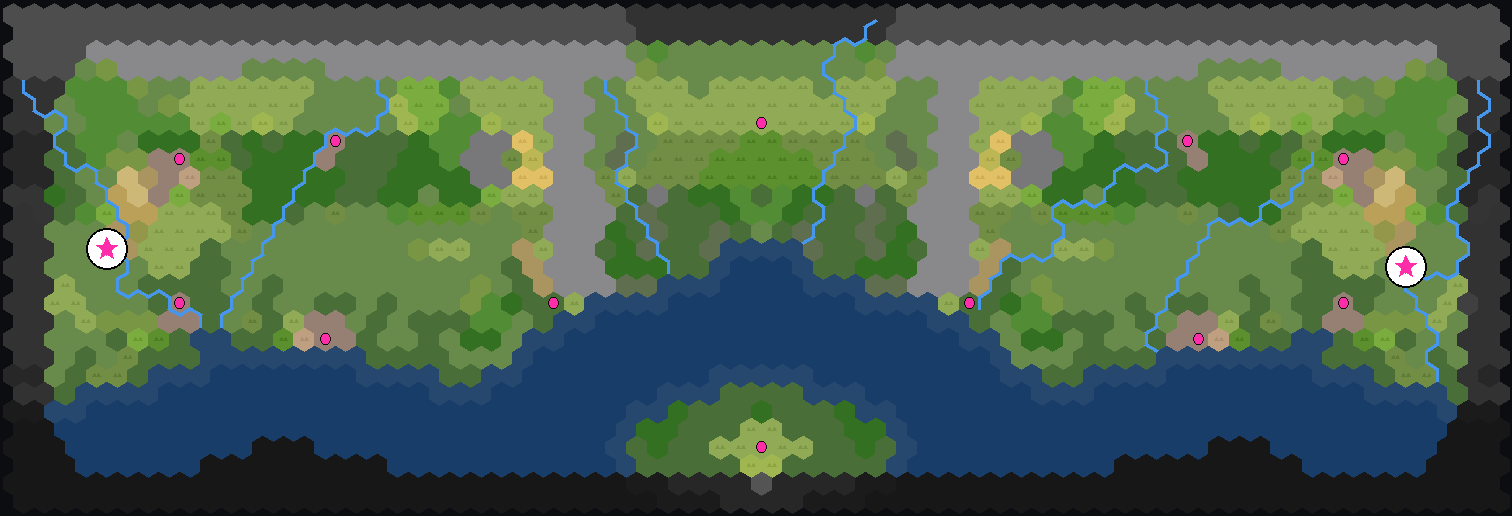
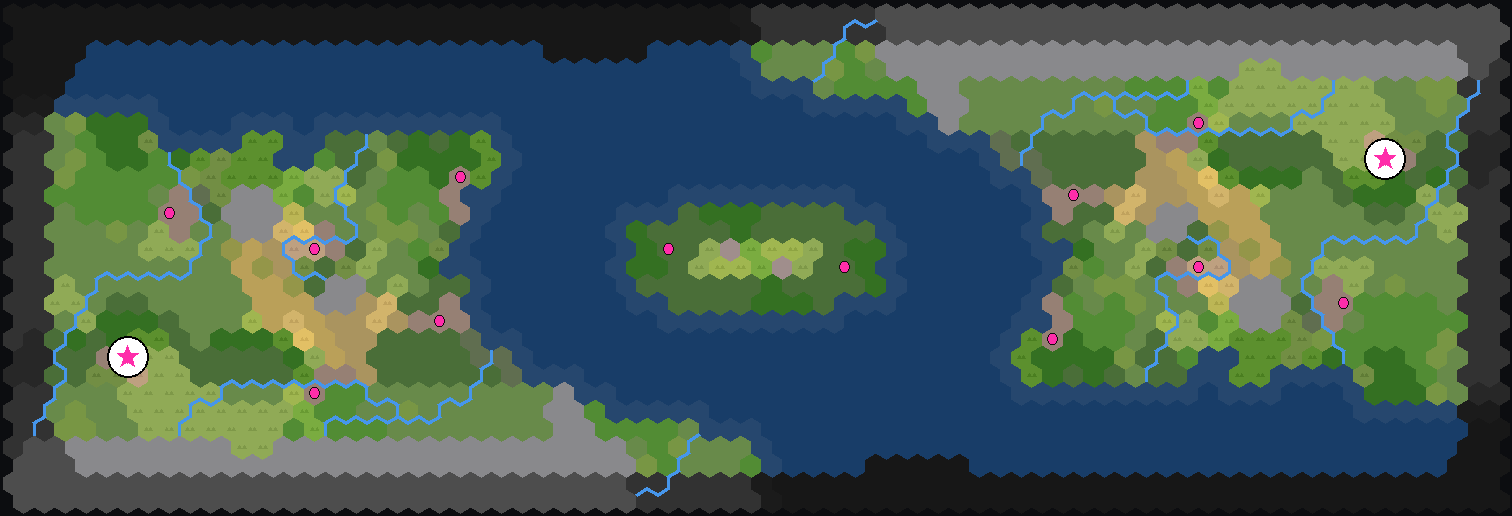
Fix point-symmetry maps in the config atlas
The atlas regeneration passed only --point-symmetry, which falls back to a
plain mirror layout; true point symmetry needs --mirror --point-symmetry
together. Re-render the 12 PointSymmetry maps so they show the real S-strait
variant (sea in opposite corners, self-rotational island at the centre,
diagonal capitals). The map script itself was unchanged.

Claude-Session: https://claude.ai/code/session_016anqmz6LqKaoVPgJrYHWkN

diff --git a/atlas/index.html b/atlas/index.html
@@ -34,7 +34,7 @@ h1 { margin: 0 0 4px; font: 600 18px/1.2 ui-monospace, Menlo, monospace;
 <header><h1>Caldera Bay — Config Atlas</h1>
 <div class="sub">Duel &amp; Tiny · Square / Wide / Ultrawide · Mirror (classic estuary)
 vs Point Symmetry (the S-strait) · always Temperate</div></header>
-<div class="grid"><div class="card"><img src="maps/Caldera_Bay_Duel-Square-Mirror-1.png" loading="lazy"><div class="meta"><div class="seed">seed Duel-Square-Mirror-1</div><div class="chips"><span class="chip">46×44</span><span class="chip">12% flat-lush</span><span class="chip">water 476</span><span class="chip">mtn 275</span><span class="chip bad">rivers 167</span><span class="chip bad">forest 292</span><span class="chip ok">2 starts</span><span class="chip ok">mirror-sym</span><span class="chip">sites 14</span><span class="chip">tribes 10</span><span class="chip">res 60</span></div></div></div><div class="card"><img src="maps/Caldera_Bay_Duel-Square-Mirror-5.png" loading="lazy"><div class="meta"><div class="seed">seed Duel-Square-Mirror-5</div><div class="chips"><span class="chip">46×44</span><span class="chip">11% flat-lush</span><span class="chip">water 455</span><span class="chip">mtn 338</span><span class="chip bad">rivers 176</span><span class="chip bad">forest 356</span><span class="chip ok">2 starts</span><span class="chip ok">mirror-sym</span><span class="chip">sites 14</span><span class="chip">tribes 10</span><span class="chip">res 74</span></div></div></div><div class="card"><img src="maps/Caldera_Bay_Duel-Square-PointSymmetry-1.png" loading="lazy"><div class="meta"><div class="seed">seed Duel-Square-PointSymmetry-1</div><div class="chips"><span class="chip">46×44</span><span class="chip">12% flat-lush</span><span class="chip">water 477</span><span class="chip">mtn 277</span><span class="chip bad">rivers 143</span><span class="chip bad">forest 295</span><span class="chip ok">2 starts</span><span class="chip ok">point-sym</span><span class="chip">sites 15</span><span class="chip">tribes 10</span><span class="chip">res 78</span></div></div></div><div class="card"><img src="maps/Caldera_Bay_Duel-Square-PointSymmetry-5.png" loading="lazy"><div class="meta"><div class="seed">seed Duel-Square-PointSymmetry-5</div><div class="chips"><span class="chip">46×44</span><span class="chip">11% flat-lush</span><span class="chip">water 459</span><span class="chip">mtn 338</span><span class="chip bad">rivers 134</span><span class="chip bad">forest 377</span><span class="chip ok">2 starts</span><span class="chip ok">point-sym</span><span class="chip">sites 17</span><span class="chip">tribes 12</span><span class="chip">res 92</span></div></div></div><div class="card"><img src="maps/Caldera_Bay_Duel-Ultrawide-Mirror-1.png" loading="lazy"><div class="meta"><div class="seed">seed Duel-Ultrawide-Mirror-1</div><div class="chips"><span class="chip">72×28</span><span class="chip">16% flat-lush</span><span class="chip">water 613</span><span class="chip">mtn 298</span><span class="chip bad">rivers 173</span><span class="chip bad">forest 273</span><span class="chip ok">2 starts</span><span class="chip ok">mirror-sym</span><span class="chip">sites 16</span><span class="chip">tribes 10</span><span class="chip">res 66</span></div></div></div><div class="card"><img src="maps/Caldera_Bay_Duel-Ultrawide-Mirror-5.png" loading="lazy"><div class="meta"><div class="seed">seed Duel-Ultrawide-Mirror-5</div><div class="chips"><span class="chip">72×28</span><span class="chip">8% flat-lush</span><span class="chip">water 587</span><span class="chip">mtn 304</span><span class="chip bad">rivers 146</span><span class="chip bad">forest 380</span><span class="chip ok">2 starts</span><span class="chip ok">mirror-sym</span><span class="chip">sites 14</span><span class="chip">tribes 10</span><span class="chip">res 72</span></div></div></div><div class="card"><img src="maps/Caldera_Bay_Duel-Ultrawide-PointSymmetry-1.png" loading="lazy"><div class="meta"><div class="seed">seed Duel-Ultrawide-PointSymmetry-1</div><div class="chips"><span class="chip">72×28</span><span class="chip">16% flat-lush</span><span class="chip">water 613</span><span class="chip">mtn 298</span><span class="chip bad">rivers 163</span><span class="chip bad">forest 264</span><span class="chip ok">2 starts</span><span class="chip ok">point-sym</span><span class="chip">sites 14</span><span class="chip">tribes 8</span><span class="chip">res 74</span></div></div></div><div class="card"><img src="maps/Caldera_Bay_Duel-Ultrawide-PointSymmetry-5.png" loading="lazy"><div class="meta"><div class="seed">seed Duel-Ultrawide-PointSymmetry-5</div><div class="chips"><span class="chip">72×28</span><span class="chip">7% flat-lush</span><span class="chip">water 591</span><span class="chip">mtn 304</span><span class="chip bad">rivers 152</span><span class="chip bad">forest 362</span><span class="chip ok">2 starts</span><span class="chip ok">point-sym</span><span class="chip">sites 15</span><span class="chip">tribes 10</span><span class="chip">res 76</span></div></div></div><div class="card"><img src="maps/Caldera_Bay_Duel-Wide-Mirror-1.png" loading="lazy"><div class="meta"><div class="seed">seed Duel-Wide-Mirror-1</div><div class="chips"><span class="chip">58×34</span><span class="chip">13% flat-lush</span><span class="chip">water 542</span><span class="chip">mtn 292</span><span class="chip bad">rivers 143</span><span class="chip bad">forest 314</span><span class="chip ok">2 starts</span><span class="chip ok">mirror-sym</span><span class="chip">sites 14</span><span class="chip">tribes 10</span><span class="chip">res 78</span></div></div></div><div class="card"><img src="maps/Caldera_Bay_Duel-Wide-Mirror-5.png" loading="lazy"><div class="meta"><div class="seed">seed Duel-Wide-Mirror-5</div><div class="chips"><span class="chip">58×34</span><span class="chip">12% flat-lush</span><span class="chip">water 507</span><span class="chip">mtn 300</span><span class="chip bad">rivers 136</span><span class="chip bad">forest 357</span><span class="chip ok">2 starts</span><span class="chip ok">mirror-sym</span><span class="chip">sites 16</span><span class="chip">tribes 12</span><span class="chip">res 64</span></div></div></div><div class="card"><img src="maps/Caldera_Bay_Duel-Wide-PointSymmetry-1.png" loading="lazy"><div class="meta"><div class="seed">seed Duel-Wide-PointSymmetry-1</div><div class="chips"><span class="chip">58×34</span><span class="chip">13% flat-lush</span><span class="chip">water 543</span><span class="chip">mtn 292</span><span class="chip bad">rivers 139</span><span class="chip bad">forest 320</span><span class="chip ok">2 starts</span><span class="chip ok">point-sym</span><span class="chip">sites 15</span><span class="chip">tribes 10</span><span class="chip">res 80</span></div></div></div><div class="card"><img src="maps/Caldera_Bay_Duel-Wide-PointSymmetry-5.png" loading="lazy"><div class="meta"><div class="seed">seed Duel-Wide-PointSymmetry-5</div><div class="chips"><span class="chip">58×34</span><span class="chip">12% flat-lush</span><span class="chip">water 510</span><span class="chip">mtn 300</span><span class="chip bad">rivers 148</span><span class="chip bad">forest 366</span><span class="chip ok">2 starts</span><span class="chip ok">point-sym</span><span class="chip">sites 17</span><span class="chip">tribes 12</span><span class="chip">res 66</span></div></div></div><div class="card"><img src="maps/Caldera_Bay_Tiny-Square-Mirror-1.png" loading="lazy"><div class="meta"><div class="seed">seed Tiny-Square-Mirror-1</div><div class="chips"><span class="chip">58×58</span><span class="chip">14% flat-lush</span><span class="chip">water 776</span><span class="chip">mtn 389</span><span class="chip bad">rivers 188</span><span class="chip bad">forest 529</span><span class="chip ok">2 starts</span><span class="chip ok">mirror-sym</span><span class="chip">sites 26</span><span class="chip">tribes 22</span><span class="chip">res 111</span></div></div></div><div class="card"><img src="maps/Caldera_Bay_Tiny-Square-Mirror-5.png" loading="lazy"><div class="meta"><div class="seed">seed Tiny-Square-Mirror-5</div><div class="chips"><span class="chip">58×58</span><span class="chip">15% flat-lush</span><span class="chip">water 813</span><span class="chip">mtn 451</span><span class="chip bad">rivers 242</span><span class="chip bad">forest 402</span><span class="chip ok">2 starts</span><span class="chip ok">mirror-sym</span><span class="chip">sites 28</span><span class="chip">tribes 22</span><span class="chip">res 142</span></div></div></div><div class="card"><img src="maps/Caldera_Bay_Tiny-Square-PointSymmetry-1.png" loading="lazy"><div class="meta"><div class="seed">seed Tiny-Square-PointSymmetry-1</div><div class="chips"><span class="chip">58×58</span><span class="chip">13% flat-lush</span><span class="chip">water 768</span><span class="chip">mtn 389</span><span class="chip bad">rivers 213</span><span class="chip bad">forest 548</span><span class="chip ok">2 starts</span><span class="chip ok">point-sym</span><span class="chip">sites 27</span><span class="chip">tribes 22</span><span class="chip">res 124</span></div></div></div><div class="card"><img src="maps/Caldera_Bay_Tiny-Square-PointSymmetry-5.png" loading="lazy"><div class="meta"><div class="seed">seed Tiny-Square-PointSymmetry-5</div><div class="chips"><span class="chip">58×58</span><span class="chip">16% flat-lush</span><span class="chip">water 815</span><span class="chip">mtn 451</span><span class="chip bad">rivers 242</span><span class="chip bad">forest 397</span><span class="chip ok">2 starts</span><span class="chip ok">point-sym</span><span class="chip">sites 27</span><span class="chip">tribes 22</span><span class="chip">res 163</span></div></div></div><div class="card"><img src="maps/Caldera_Bay_Tiny-Ultrawide-Mirror-1.png" loading="lazy"><div class="meta"><div class="seed">seed Tiny-Ultrawide-Mirror-1</div><div class="chips"><span class="chip">92×36</span><span class="chip">11% flat-lush</span><span class="chip">water 785</span><span class="chip">mtn 343</span><span class="chip bad">rivers 239</span><span class="chip bad">forest 461</span><span class="chip ok">2 starts</span><span class="chip ok">mirror-sym</span><span class="chip">sites 26</span><span class="chip">tribes 20</span><span class="chip">res 156</span></div></div></div><div class="card"><img src="maps/Caldera_Bay_Tiny-Ultrawide-Mirror-5.png" loading="lazy"><div class="meta"><div class="seed">seed Tiny-Ultrawide-Mirror-5</div><div class="chips"><span class="chip">92×36</span><span class="chip">9% flat-lush</span><span class="chip">water 789</span><span class="chip">mtn 531</span><span class="chip bad">rivers 237</span><span class="chip bad">forest 588</span><span class="chip ok">2 starts</span><span class="chip ok">mirror-sym</span><span class="chip">sites 26</span><span class="chip">tribes 22</span><span class="chip">res 152</span></div></div></div><div class="card"><img src="maps/Caldera_Bay_Tiny-Ultrawide-PointSymmetry-1.png" loading="lazy"><div class="meta"><div class="seed">seed Tiny-Ultrawide-PointSymmetry-1</div><div class="chips"><span class="chip">92×36</span><span class="chip">12% flat-lush</span><span class="chip">water 805</span><span class="chip">mtn 343</span><span class="chip bad">rivers 232</span><span class="chip bad">forest 464</span><span class="chip ok">2 starts</span><span class="chip ok">point-sym</span><span class="chip">sites 26</span><span class="chip">tribes 20</span><span class="chip">res 145</span></div></div></div><div class="card"><img src="maps/Caldera_Bay_Tiny-Ultrawide-PointSymmetry-5.png" loading="lazy"><div class="meta"><div class="seed">seed Tiny-Ultrawide-PointSymmetry-5</div><div class="chips"><span class="chip">92×36</span><span class="chip">9% flat-lush</span><span class="chip">water 793</span><span class="chip">mtn 533</span><span class="chip bad">rivers 203</span><span class="chip bad">forest 599</span><span class="chip ok">2 starts</span><span class="chip ok">point-sym</span><span class="chip">sites 27</span><span class="chip">tribes 22</span><span class="chip">res 149</span></div></div></div><div class="card"><img src="maps/Caldera_Bay_Tiny-Wide-Mirror-1.png" loading="lazy"><div class="meta"><div class="seed">seed Tiny-Wide-Mirror-1</div><div class="chips"><span class="chip">74×46</span><span class="chip">14% flat-lush</span><span class="chip">water 756</span><span class="chip">mtn 469</span><span class="chip bad">rivers 262</span><span class="chip bad">forest 478</span><span class="chip ok">2 starts</span><span class="chip ok">mirror-sym</span><span class="chip">sites 28</span><span class="chip">tribes 22</span><span class="chip">res 138</span></div></div></div><div class="card"><img src="maps/Caldera_Bay_Tiny-Wide-Mirror-5.png" loading="lazy"><div class="meta"><div class="seed">seed Tiny-Wide-Mirror-5</div><div class="chips"><span class="chip">74×46</span><span class="chip">10% flat-lush</span><span class="chip">water 719</span><span class="chip">mtn 486</span><span class="chip bad">rivers 240</span><span class="chip bad">forest 409</span><span class="chip ok">2 starts</span><span class="chip ok">mirror-sym</span><span class="chip">sites 26</span><span class="chip">tribes 22</span><span class="chip">res 146</span></div></div></div><div class="card"><img src="maps/Caldera_Bay_Tiny-Wide-PointSymmetry-1.png" loading="lazy"><div class="meta"><div class="seed">seed Tiny-Wide-PointSymmetry-1</div><div class="chips"><span class="chip">74×46</span><span class="chip">13% flat-lush</span><span class="chip">water 759</span><span class="chip">mtn 467</span><span class="chip bad">rivers 249</span><span class="chip bad">forest 463</span><span class="chip ok">2 starts</span><span class="chip ok">point-sym</span><span class="chip">sites 27</span><span class="chip">tribes 22</span><span class="chip">res 133</span></div></div></div><div class="card"><img src="maps/Caldera_Bay_Tiny-Wide-PointSymmetry-5.png" loading="lazy"><div class="meta"><div class="seed">seed Tiny-Wide-PointSymmetry-5</div><div class="chips"><span class="chip">74×46</span><span class="chip">10% flat-lush</span><span class="chip">water 720</span><span class="chip">mtn 486</span><span class="chip bad">rivers 252</span><span class="chip bad">forest 410</span><span class="chip ok">2 starts</span><span class="chip ok">point-sym</span><span class="chip">sites 27</span><span class="chip">tribes 22</span><span class="chip">res 143</span></div></div></div></div>
+<div class="grid"><div class="card"><img src="maps/Caldera_Bay_Duel-Square-Mirror-1.png" loading="lazy"><div class="meta"><div class="seed">seed Duel-Square-Mirror-1</div><div class="chips"><span class="chip">46×44</span><span class="chip">12% flat-lush</span><span class="chip">water 476</span><span class="chip">mtn 275</span><span class="chip bad">rivers 167</span><span class="chip bad">forest 292</span><span class="chip ok">2 starts</span><span class="chip ok">mirror-sym</span><span class="chip">sites 14</span><span class="chip">tribes 10</span><span class="chip">res 60</span></div></div></div><div class="card"><img src="maps/Caldera_Bay_Duel-Square-Mirror-5.png" loading="lazy"><div class="meta"><div class="seed">seed Duel-Square-Mirror-5</div><div class="chips"><span class="chip">46×44</span><span class="chip">11% flat-lush</span><span class="chip">water 455</span><span class="chip">mtn 338</span><span class="chip bad">rivers 176</span><span class="chip bad">forest 356</span><span class="chip ok">2 starts</span><span class="chip ok">mirror-sym</span><span class="chip">sites 14</span><span class="chip">tribes 10</span><span class="chip">res 74</span></div></div></div><div class="card"><img src="maps/Caldera_Bay_Duel-Square-PointSymmetry-1.png" loading="lazy"><div class="meta"><div class="seed">seed Duel-Square-PointSymmetry-1</div><div class="chips"><span class="chip">46×44</span><span class="chip">9% flat-lush</span><span class="chip">water 818</span><span class="chip">mtn 194</span><span class="chip bad">rivers 139</span><span class="chip bad">forest 265</span><span class="chip ok">2 starts</span><span class="chip ok">point-sym</span><span class="chip">sites 16</span><span class="chip">tribes 12</span><span class="chip">res 75</span></div></div></div><div class="card"><img src="maps/Caldera_Bay_Duel-Square-PointSymmetry-5.png" loading="lazy"><div class="meta"><div class="seed">seed Duel-Square-PointSymmetry-5</div><div class="chips"><span class="chip">46×44</span><span class="chip">6% flat-lush</span><span class="chip">water 762</span><span class="chip">mtn 240</span><span class="chip bad">rivers 140</span><span class="chip bad">forest 260</span><span class="chip ok">2 starts</span><span class="chip ok">point-sym</span><span class="chip">sites 16</span><span class="chip">tribes 12</span><span class="chip">res 92</span></div></div></div><div class="card"><img src="maps/Caldera_Bay_Duel-Ultrawide-Mirror-1.png" loading="lazy"><div class="meta"><div class="seed">seed Duel-Ultrawide-Mirror-1</div><div class="chips"><span class="chip">72×28</span><span class="chip">16% flat-lush</span><span class="chip">water 613</span><span class="chip">mtn 298</span><span class="chip bad">rivers 173</span><span class="chip bad">forest 273</span><span class="chip ok">2 starts</span><span class="chip ok">mirror-sym</span><span class="chip">sites 16</span><span class="chip">tribes 10</span><span class="chip">res 66</span></div></div></div><div class="card"><img src="maps/Caldera_Bay_Duel-Ultrawide-Mirror-5.png" loading="lazy"><div class="meta"><div class="seed">seed Duel-Ultrawide-Mirror-5</div><div class="chips"><span class="chip">72×28</span><span class="chip">8% flat-lush</span><span class="chip">water 587</span><span class="chip">mtn 304</span><span class="chip bad">rivers 146</span><span class="chip bad">forest 380</span><span class="chip ok">2 starts</span><span class="chip ok">mirror-sym</span><span class="chip">sites 14</span><span class="chip">tribes 10</span><span class="chip">res 72</span></div></div></div><div class="card"><img src="maps/Caldera_Bay_Duel-Ultrawide-PointSymmetry-1.png" loading="lazy"><div class="meta"><div class="seed">seed Duel-Ultrawide-PointSymmetry-1</div><div class="chips"><span class="chip">72×28</span><span class="chip">11% flat-lush</span><span class="chip">water 856</span><span class="chip">mtn 266</span><span class="chip bad">rivers 170</span><span class="chip bad">forest 278</span><span class="chip ok">2 starts</span><span class="chip ok">point-sym</span><span class="chip">sites 14</span><span class="chip">tribes 10</span><span class="chip">res 68</span></div></div></div><div class="card"><img src="maps/Caldera_Bay_Duel-Ultrawide-PointSymmetry-5.png" loading="lazy"><div class="meta"><div class="seed">seed Duel-Ultrawide-PointSymmetry-5</div><div class="chips"><span class="chip">72×28</span><span class="chip">8% flat-lush</span><span class="chip">water 878</span><span class="chip">mtn 272</span><span class="chip bad">rivers 135</span><span class="chip bad">forest 252</span><span class="chip ok">2 starts</span><span class="chip ok">point-sym</span><span class="chip">sites 18</span><span class="chip">tribes 12</span><span class="chip">res 68</span></div></div></div><div class="card"><img src="maps/Caldera_Bay_Duel-Wide-Mirror-1.png" loading="lazy"><div class="meta"><div class="seed">seed Duel-Wide-Mirror-1</div><div class="chips"><span class="chip">58×34</span><span class="chip">13% flat-lush</span><span class="chip">water 542</span><span class="chip">mtn 292</span><span class="chip bad">rivers 143</span><span class="chip bad">forest 314</span><span class="chip ok">2 starts</span><span class="chip ok">mirror-sym</span><span class="chip">sites 14</span><span class="chip">tribes 10</span><span class="chip">res 78</span></div></div></div><div class="card"><img src="maps/Caldera_Bay_Duel-Wide-Mirror-5.png" loading="lazy"><div class="meta"><div class="seed">seed Duel-Wide-Mirror-5</div><div class="chips"><span class="chip">58×34</span><span class="chip">12% flat-lush</span><span class="chip">water 507</span><span class="chip">mtn 300</span><span class="chip bad">rivers 136</span><span class="chip bad">forest 357</span><span class="chip ok">2 starts</span><span class="chip ok">mirror-sym</span><span class="chip">sites 16</span><span class="chip">tribes 12</span><span class="chip">res 64</span></div></div></div><div class="card"><img src="maps/Caldera_Bay_Duel-Wide-PointSymmetry-1.png" loading="lazy"><div class="meta"><div class="seed">seed Duel-Wide-PointSymmetry-1</div><div class="chips"><span class="chip">58×34</span><span class="chip">7% flat-lush</span><span class="chip">water 824</span><span class="chip">mtn 240</span><span class="chip bad">rivers 151</span><span class="chip bad">forest 287</span><span class="chip ok">2 starts</span><span class="chip ok">point-sym</span><span class="chip">sites 18</span><span class="chip">tribes 14</span><span class="chip">res 79</span></div></div></div><div class="card"><img src="maps/Caldera_Bay_Duel-Wide-PointSymmetry-5.png" loading="lazy"><div class="meta"><div class="seed">seed Duel-Wide-PointSymmetry-5</div><div class="chips"><span class="chip">58×34</span><span class="chip">7% flat-lush</span><span class="chip">water 806</span><span class="chip">mtn 252</span><span class="chip bad">rivers 120</span><span class="chip bad">forest 228</span><span class="chip ok">2 starts</span><span class="chip ok">point-sym</span><span class="chip">sites 14</span><span class="chip">tribes 10</span><span class="chip">res 80</span></div></div></div><div class="card"><img src="maps/Caldera_Bay_Tiny-Square-Mirror-1.png" loading="lazy"><div class="meta"><div class="seed">seed Tiny-Square-Mirror-1</div><div class="chips"><span class="chip">58×58</span><span class="chip">14% flat-lush</span><span class="chip">water 776</span><span class="chip">mtn 389</span><span class="chip bad">rivers 188</span><span class="chip bad">forest 529</span><span class="chip ok">2 starts</span><span class="chip ok">mirror-sym</span><span class="chip">sites 26</span><span class="chip">tribes 22</span><span class="chip">res 111</span></div></div></div><div class="card"><img src="maps/Caldera_Bay_Tiny-Square-Mirror-5.png" loading="lazy"><div class="meta"><div class="seed">seed Tiny-Square-Mirror-5</div><div class="chips"><span class="chip">58×58</span><span class="chip">15% flat-lush</span><span class="chip">water 813</span><span class="chip">mtn 451</span><span class="chip bad">rivers 242</span><span class="chip bad">forest 402</span><span class="chip ok">2 starts</span><span class="chip ok">mirror-sym</span><span class="chip">sites 28</span><span class="chip">tribes 22</span><span class="chip">res 142</span></div></div></div><div class="card"><img src="maps/Caldera_Bay_Tiny-Square-PointSymmetry-1.png" loading="lazy"><div class="meta"><div class="seed">seed Tiny-Square-PointSymmetry-1</div><div class="chips"><span class="chip">58×58</span><span class="chip">8% flat-lush</span><span class="chip">water 1142</span><span class="chip">mtn 336</span><span class="chip bad">rivers 222</span><span class="chip bad">forest 546</span><span class="chip ok">2 starts</span><span class="chip ok">point-sym</span><span class="chip">sites 26</span><span class="chip">tribes 22</span><span class="chip">res 126</span></div></div></div><div class="card"><img src="maps/Caldera_Bay_Tiny-Square-PointSymmetry-5.png" loading="lazy"><div class="meta"><div class="seed">seed Tiny-Square-PointSymmetry-5</div><div class="chips"><span class="chip">58×58</span><span class="chip">11% flat-lush</span><span class="chip">water 1026</span><span class="chip">mtn 402</span><span class="chip bad">rivers 232</span><span class="chip bad">forest 338</span><span class="chip ok">2 starts</span><span class="chip ok">point-sym</span><span class="chip">sites 28</span><span class="chip">tribes 24</span><span class="chip">res 130</span></div></div></div><div class="card"><img src="maps/Caldera_Bay_Tiny-Ultrawide-Mirror-1.png" loading="lazy"><div class="meta"><div class="seed">seed Tiny-Ultrawide-Mirror-1</div><div class="chips"><span class="chip">92×36</span><span class="chip">11% flat-lush</span><span class="chip">water 785</span><span class="chip">mtn 343</span><span class="chip bad">rivers 239</span><span class="chip bad">forest 461</span><span class="chip ok">2 starts</span><span class="chip ok">mirror-sym</span><span class="chip">sites 26</span><span class="chip">tribes 20</span><span class="chip">res 156</span></div></div></div><div class="card"><img src="maps/Caldera_Bay_Tiny-Ultrawide-Mirror-5.png" loading="lazy"><div class="meta"><div class="seed">seed Tiny-Ultrawide-Mirror-5</div><div class="chips"><span class="chip">92×36</span><span class="chip">9% flat-lush</span><span class="chip">water 789</span><span class="chip">mtn 531</span><span class="chip bad">rivers 237</span><span class="chip bad">forest 588</span><span class="chip ok">2 starts</span><span class="chip ok">mirror-sym</span><span class="chip">sites 26</span><span class="chip">tribes 22</span><span class="chip">res 152</span></div></div></div><div class="card"><img src="maps/Caldera_Bay_Tiny-Ultrawide-PointSymmetry-1.png" loading="lazy"><div class="meta"><div class="seed">seed Tiny-Ultrawide-PointSymmetry-1</div><div class="chips"><span class="chip">92×36</span><span class="chip">10% flat-lush</span><span class="chip">water 1056</span><span class="chip">mtn 374</span><span class="chip bad">rivers 228</span><span class="chip bad">forest 494</span><span class="chip ok">2 starts</span><span class="chip ok">point-sym</span><span class="chip">sites 30</span><span class="chip">tribes 24</span><span class="chip">res 123</span></div></div></div><div class="card"><img src="maps/Caldera_Bay_Tiny-Ultrawide-PointSymmetry-5.png" loading="lazy"><div class="meta"><div class="seed">seed Tiny-Ultrawide-PointSymmetry-5</div><div class="chips"><span class="chip">92×36</span><span class="chip">7% flat-lush</span><span class="chip">water 1100</span><span class="chip">mtn 488</span><span class="chip bad">rivers 233</span><span class="chip bad">forest 480</span><span class="chip ok">2 starts</span><span class="chip ok">point-sym</span><span class="chip">sites 26</span><span class="chip">tribes 20</span><span class="chip">res 132</span></div></div></div><div class="card"><img src="maps/Caldera_Bay_Tiny-Wide-Mirror-1.png" loading="lazy"><div class="meta"><div class="seed">seed Tiny-Wide-Mirror-1</div><div class="chips"><span class="chip">74×46</span><span class="chip">14% flat-lush</span><span class="chip">water 756</span><span class="chip">mtn 469</span><span class="chip bad">rivers 262</span><span class="chip bad">forest 478</span><span class="chip ok">2 starts</span><span class="chip ok">mirror-sym</span><span class="chip">sites 28</span><span class="chip">tribes 22</span><span class="chip">res 138</span></div></div></div><div class="card"><img src="maps/Caldera_Bay_Tiny-Wide-Mirror-5.png" loading="lazy"><div class="meta"><div class="seed">seed Tiny-Wide-Mirror-5</div><div class="chips"><span class="chip">74×46</span><span class="chip">10% flat-lush</span><span class="chip">water 719</span><span class="chip">mtn 486</span><span class="chip bad">rivers 240</span><span class="chip bad">forest 409</span><span class="chip ok">2 starts</span><span class="chip ok">mirror-sym</span><span class="chip">sites 26</span><span class="chip">tribes 22</span><span class="chip">res 146</span></div></div></div><div class="card"><img src="maps/Caldera_Bay_Tiny-Wide-PointSymmetry-1.png" loading="lazy"><div class="meta"><div class="seed">seed Tiny-Wide-PointSymmetry-1</div><div class="chips"><span class="chip">74×46</span><span class="chip">8% flat-lush</span><span class="chip">water 1028</span><span class="chip">mtn 410</span><span class="chip bad">rivers 242</span><span class="chip bad">forest 466</span><span class="chip ok">2 starts</span><span class="chip ok">point-sym</span><span class="chip">sites 28</span><span class="chip">tribes 24</span><span class="chip">res 126</span></div></div></div><div class="card"><img src="maps/Caldera_Bay_Tiny-Wide-PointSymmetry-5.png" loading="lazy"><div class="meta"><div class="seed">seed Tiny-Wide-PointSymmetry-5</div><div class="chips"><span class="chip">74×46</span><span class="chip">12% flat-lush</span><span class="chip">water 1056</span><span class="chip">mtn 414</span><span class="chip bad">rivers 232</span><span class="chip bad">forest 382</span><span class="chip ok">2 starts</span><span class="chip ok">point-sym</span><span class="chip">sites 28</span><span class="chip">tribes 24</span><span class="chip">res 136</span></div></div></div></div>
 <div id="lb"><img alt=""></div>
 <script>
 const lb = document.getElementById('lb'), lbimg = lb.querySelector('img');
